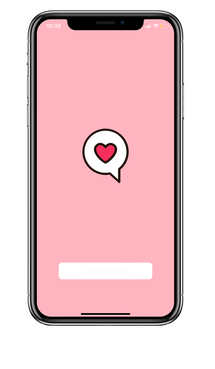
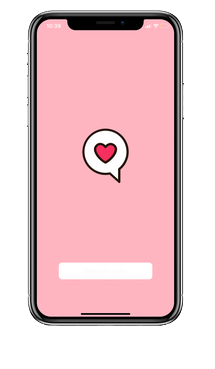
Added hover effect

diff --git a/src/App.js b/src/App.js
@@ -13,8 +13,8 @@ import './css/homepage.css';
 // import './js/typeit.min.js'
 // import './js/homepage.js'
 
-import Navigation from "./components/Navigation/Navigation";
-import Progress from "./components/Navigation/Progress"
+import Navigation from "./components/Header/Navigation";
+import Progress from "./components/Header/Progress"
 import Introduction from './components/Content/Introduction/Introduction';
 import Projects from './components/Content/Projects/Projects';
 import Footer from './components/Footer/Footer';

diff --git a/src/css/homepage.css b/src/css/homepage.css
@@ -301,6 +301,15 @@ a.active:after {
     float: left;
 }
 
-.image {
+.projects-image img {
     padding: 0 20px 0 20px;
+    -webkit-animation-delay: 0.25s !important;
+    animation-delay: 0.25s !important;
+    -webkit-transition: all 0.65s;
+    -o-transition: all 0.65s;
+    transition: all 0.65s;
+}
+
+.projects-image img:hover {
+    transform: scale(1.10);
 }
